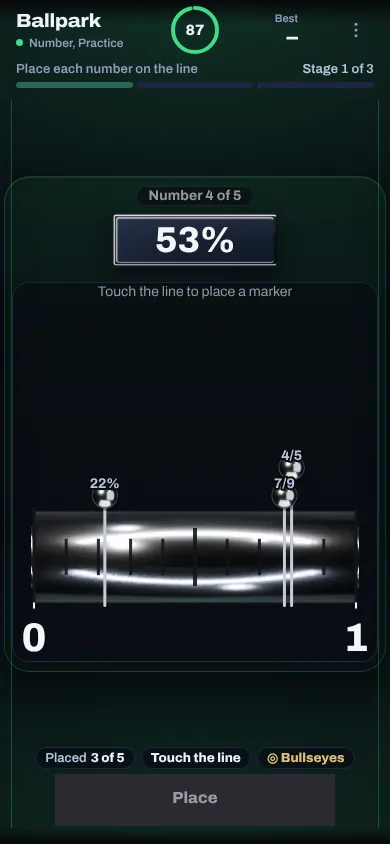
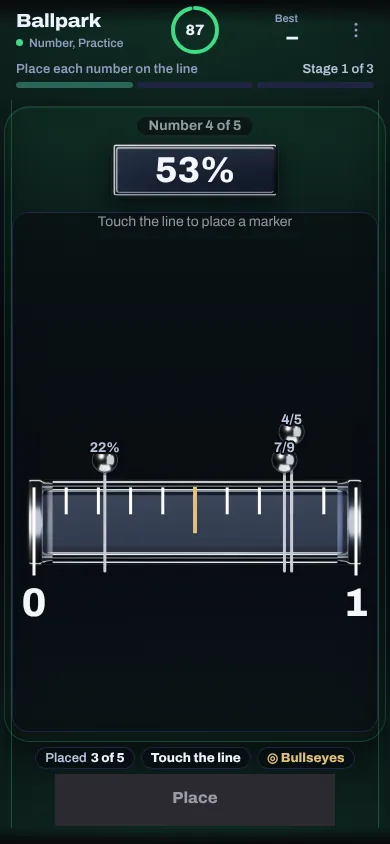
Number overhaul: the layout items (to ship with stage 2)
Counterweight's instrument fills the arena (bigger kettlebells, staggered drops,
the squashed-art fix); Operator's panel spans goal line to NEXT with bigger
equation, keys and chips; Ballpark's line is the big element (a rendered
three-slice ruler with tenths, 36-40 px end labels, bigger pins, a compact
56 px card); Integer Pyramid's tray in balanced rows (npTrayRows).

Claude-Session: https://claude.ai/code/session_011WK1FfecY6GY7JmXnDQco7

diff --git a/scripts/number-overhaul-measure-numline-check.ts b/scripts/number-overhaul-measure-numline-check.ts
@@ -127,7 +127,9 @@ const between = (text: string, from: string, to: string) => {
   ok(/if \(next\.length < NUMLINE_TOTAL && next\.length % NUMLINE_ITEMS === 0\) setClearing\(stageIndex\);/.test(place), "Ballpark: a finished line (not the last) clears before the next");
   ok(/<NumberStage type="numline" index=\{shownStage\} exit=\{clearing !== null \? "clear" : null\}/.test(s), "Ballpark: the line sits in the shared stage moment");
   ok(!/soundCue\("numline\.line"\)/.test(s), "Ballpark: no second sound when the next line comes in");
-  ok(/numberArt\("numline", "ruler"\)/.test(s) && /"pin-placed" : "pin"/.test(s), "Ballpark: the rule and the pins are the rendered pieces");
+  // Changed with Joe's approval, 15 Nov 2026 (routine consequence of the Number overhaul): the ruler is three slices
+  // (only the plain middle stretches, sideways), no longer one stretched rod.
+  ok(["ruler-l", "ruler-m", "ruler-r"].every((n) => s.includes(`numberArt("numline", "${n}")`)) && /"pin-placed" : "pin"/.test(s), "Ballpark: the ruler (three slices) and the pins are the rendered pieces");
   ok(/variant="gold"/.test(between(s, 'data-game-controls="actions"', "</Button>")), "Ballpark: Place is the screen's one gold button");
   const css = src("src/polish-layout/batch-w-numline.css");
   ok(!/drop-shadow|text-shadow: 0 0 1|0 0 14px/.test(css), "Ballpark: nothing glows in the live round");
@@ -154,7 +156,8 @@ const between = (text: string, from: string, to: string) => {
 
 /* ------------------------------------------------------------------ 6. Art and sound slots */
 {
-  for (const f of ["measure/jug-front", "measure/shelf", "numline/ruler", "numline/card", "numline/pin", "numline/pin-placed"])
+  // Changed with Joe's approval, 15 Nov 2026 (routine consequence of the Number overhaul): the ruler ships as its three slices.
+  for (const f of ["measure/jug-front", "measure/shelf", "numline/ruler-l", "numline/ruler-m", "numline/ruler-r", "numline/card", "numline/pin", "numline/pin-placed"])
     ok(existsSync(`public/number/${f}.webp`), `art: public/number/${f}.webp`);
   for (const f of ["measure.py", "numline.py"]) ok(existsSync(`docs/design/number-overhaul/source/${f}`), `art: its Blender source ${f}`);
   // The material pass (Joe's clarification, 15 Nov 2026): the glass shell draws its middle too (fill), the water is

diff --git a/src/components/app/gameIcons/tileScenes.data.ts b/src/components/app/gameIcons/tileScenes.data.ts
@@ -59,7 +59,7 @@ export const TILE_SCENES: Partial<Record<PuzzleType, string>> = {
   muggins: "88dc46fc5e",
   nonogram: "cfbe72c6d1",
   numhunt: "7110e0cf8b",
-  numline: "0ff9b6c5ea",
+  numline: "2b05cb8f13",
   numpyramid: "3b439db14a",
   orbit: "b69b20288e",
   pairmatch: "cf87b64211",

diff --git a/docs/design/number-overhaul/source/numline.py b/docs/design/number-overhaul/source/numline.py
@@ -54,7 +54,7 @@ def clear_lights():
 def ruler():
     """A flat ruler bar, 360 x 80 points at its largest display: a dark enamel face, even and clean so the app's ticks
     and pins read, between polished bevelled chrome edges top and bottom and chrome end caps; the crisp highlights
-    sit only on those edges and caps. Written whole (ruler.webp) and cut into three slices the app draws so only the
+    sit only on those edges and caps. Rendered whole and cut into three slices (only the slices ship) the app draws so only the
     plain middle stretches, and only sideways: ruler-l and ruler-r (the end caps, 24 points wide) and ruler-m (a
     4-point slice of the plain middle)."""
     setup(360, 80, scale=3, samples=128)
@@ -87,6 +87,7 @@ def ruler():
     im.crop((0, 0, cap, im.height)).save(out.replace("ruler.webp", "ruler-l.webp"), "WEBP", quality=88, method=6)
     im.crop((im.width - cap, 0, im.width, im.height)).save(out.replace("ruler.webp", "ruler-r.webp"), "WEBP", quality=88, method=6)
     im.crop((mid - round(2 * k), 0, mid + round(2 * k), im.height)).save(out.replace("ruler.webp", "ruler-m.webp"), "WEBP", quality=92, method=6)
+    os.remove(out)  # only the slices ship
     print("cut ruler-l, ruler-m, ruler-r")
 
 
